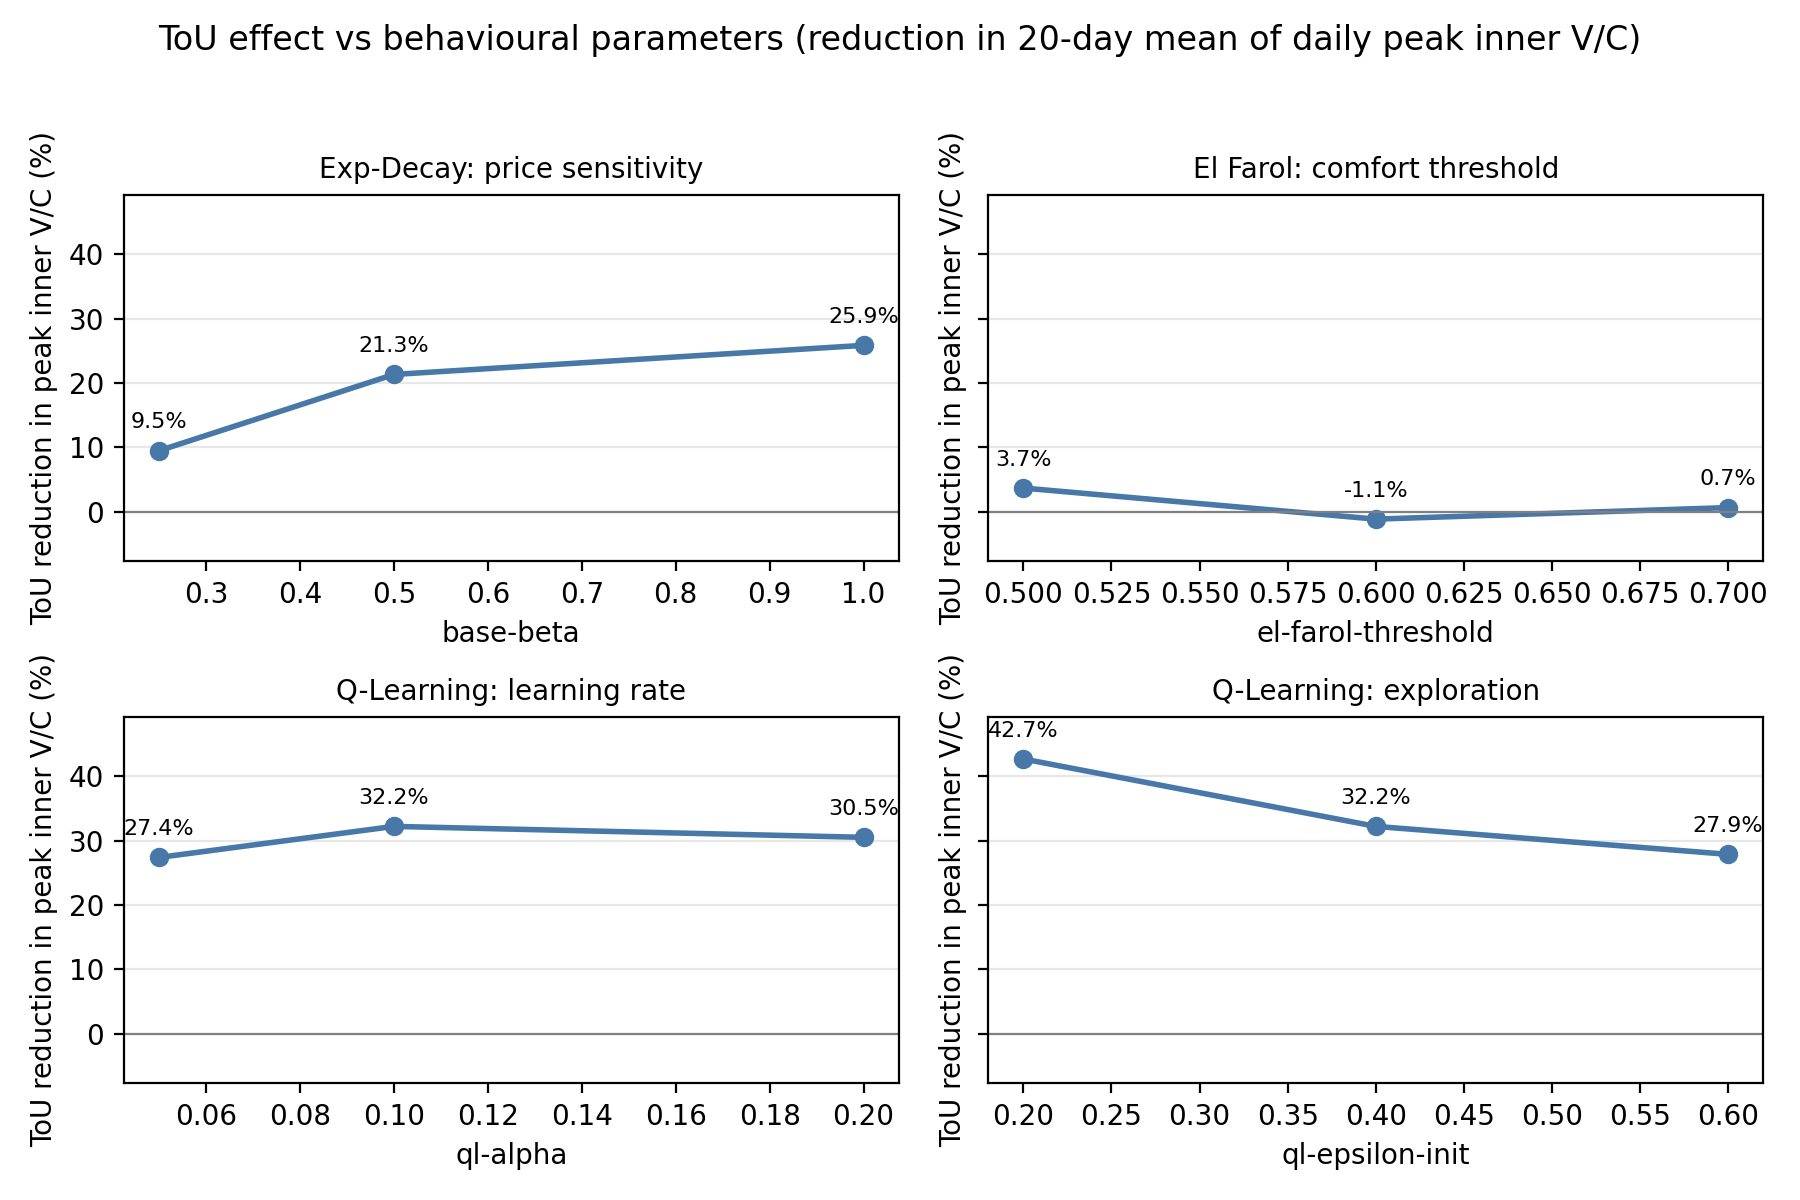
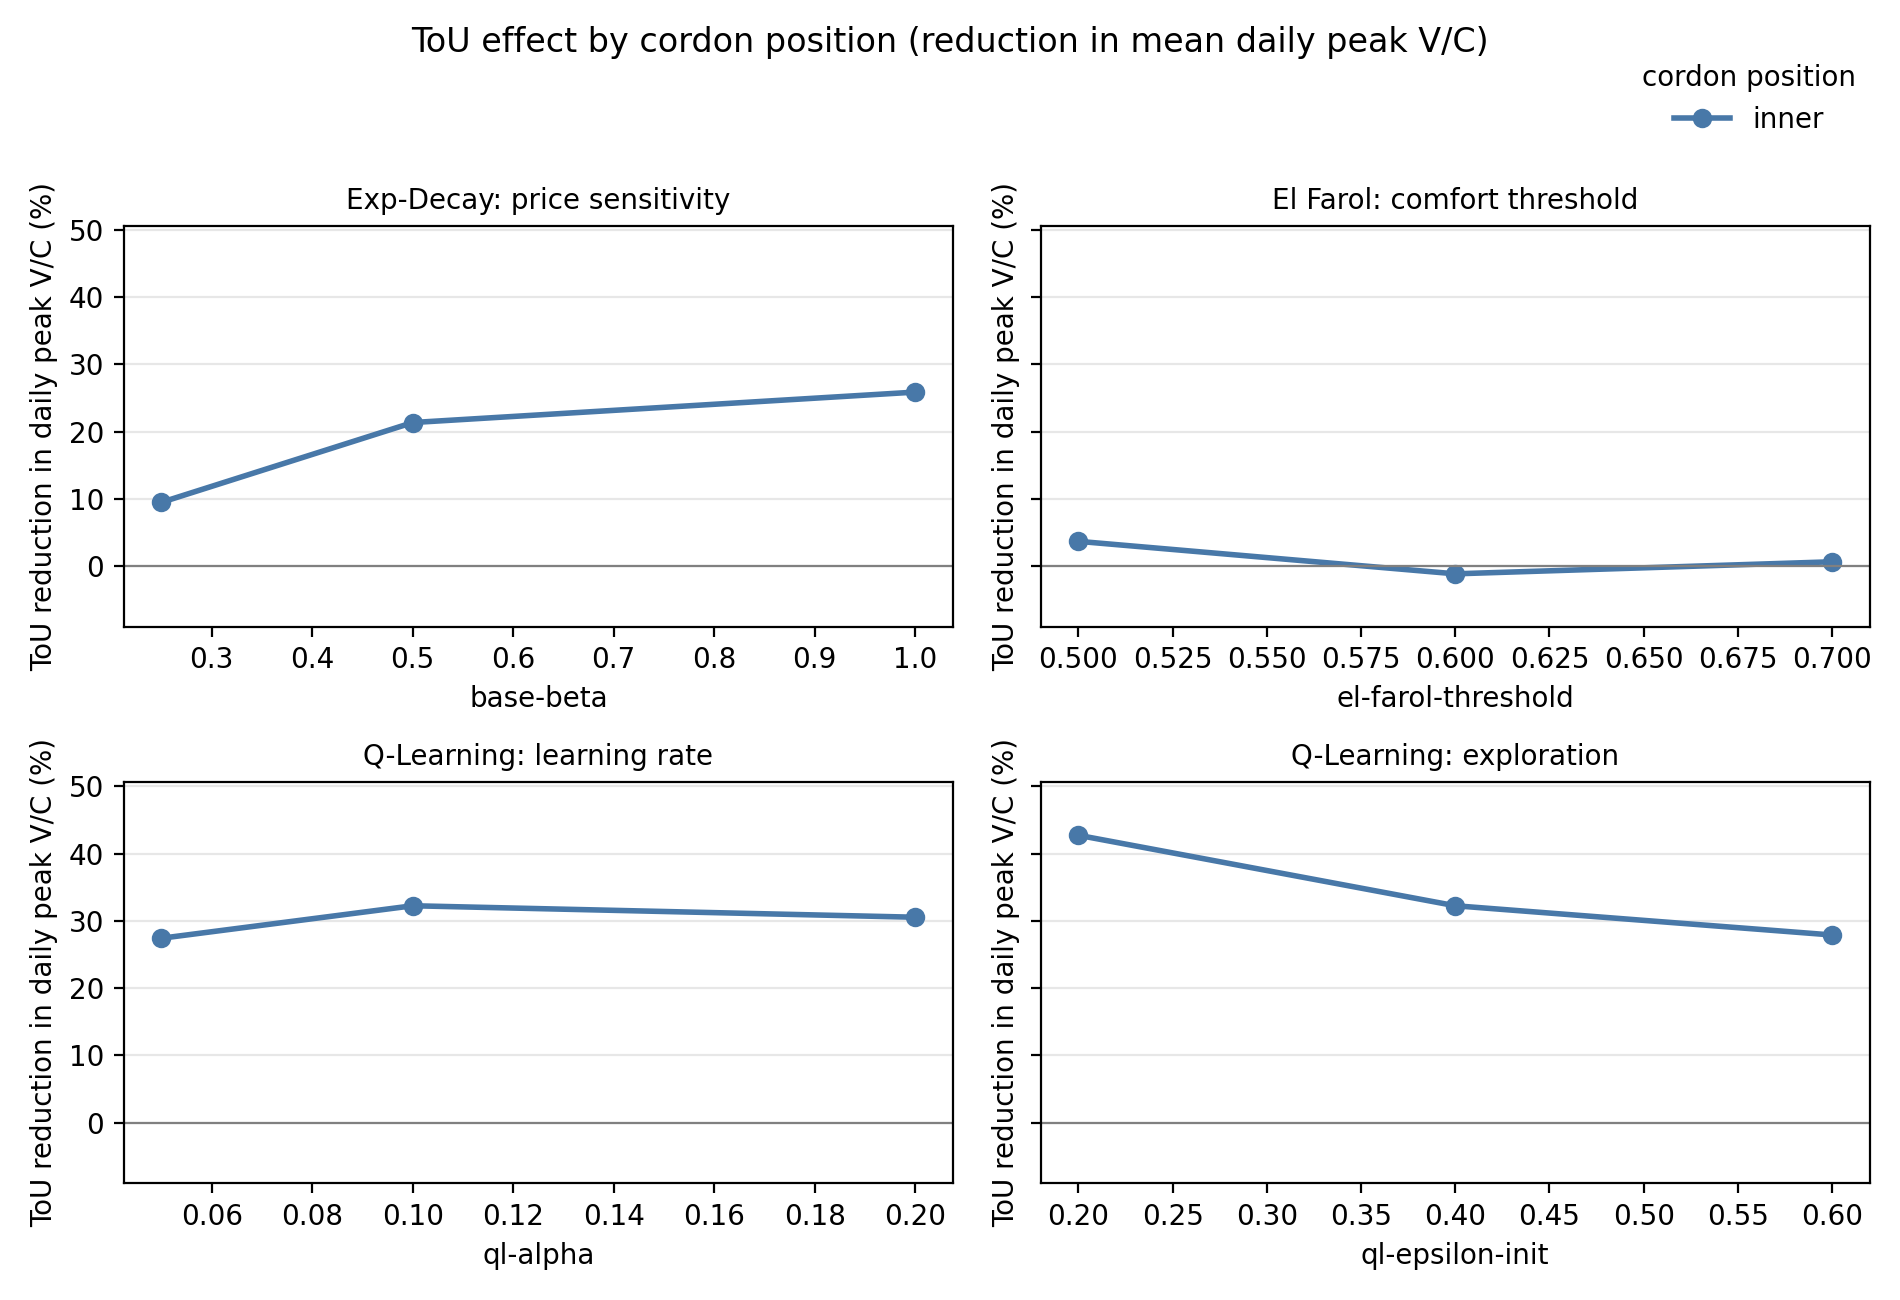
Break the sensitivity figures out by cordon position
sensitivity_reduction.png now draws one line per position (inner / boundary /
peripheral) instead of inner only, so a position that gets worse under pricing
shows up as a line below zero - the signature of queues displacing onto the
cordon boundary. New sensitivity_positions.png shows the underlying levels as
No-Charge/ToU box pairs per position at each rule's baseline parameter, because
a percentage off the small inner base is easy to over-read next to the
boundary's much higher V/C.

Both figures need peak-vc-boundary/peak-vc-peripheral, which only exist in
tables written after the metric expansion, so they degrade gracefully on the
current 20-day tables (series skipped, note printed) and will populate once the
14-day suite runs. SENS_TABLES/SENS_FIGS env overrides added; the position code
paths were verified against a synthetic fixture with displacement built in.

Changed region(s): [[0.0, 0.1233, 0.9956, 0.9867], [0.0933, 0.0, 0.9644, 0.0925]]

diff --git a/netlogo/sensitivity_experiment/plot_sensitivity.py b/netlogo/sensitivity_experiment/plot_sensitivity.py
@@ -1,14 +1,21 @@
 #!/usr/bin/env python3
-"""Boxplots for the BehaviorSpace sensitivity tables.
+"""Figures for the BehaviorSpace sensitivity tables.
 
-Each run's 20 daily values (peak-vc-inner, or peak % traffic at LoS E/F per
-group for the k-factor sweep) become one box, paired No-Charge vs ToU at each
-parameter value, so the day-to-day spread that the mean/SD summary hides is
-visible directly.
+Reads  output/tables/sensitivity-*.csv  (override dir with SENS_TABLES)
+Writes output/figures/                  (override dir with SENS_FIGS)
 
-Reads  netlogo/output/tables/sensitivity-*.csv
-Writes netlogo/output/figures/sensitivity_box_behaviour.png
-       netlogo/output/figures/sensitivity_box_kfactor.png
+  sensitivity_box_behaviour.png    daily peak inner V/C, one box per run
+  sensitivity_box_kfactor.png      group LoS E/F over the k-factor sweep
+  sensitivity_reduction.png        ToU reduction by cordon position
+  sensitivity_positions.png        peak V/C by position at each rule baseline
+  sensitivity_elfarol_timeseries.png  El Farol day-by-day oscillation
+
+A box is one run's per-day values, paired No-Charge vs ToU, so the day-to-day
+spread the mean/SD summary hides stays visible.
+
+The two position figures need peak-vc-boundary / peak-vc-peripheral, which only
+exist in tables written after the metric set was expanded (2026-07-25). Older
+tables are handled: those series are skipped and a note is printed.
 """
 import csv, os
 from collections import defaultdict
@@ -17,8 +24,10 @@ matplotlib.use("Agg")
 import matplotlib.pyplot as plt
 
 HERE = os.path.dirname(os.path.abspath(__file__))
-TABLES = os.path.join(HERE, "..", "..", "output", "tables")
-FIGS = os.path.join(HERE, "..", "..", "output", "figures")
+# Paths can be redirected (SENS_TABLES / SENS_FIGS) to run the figures against
+# a test fixture without touching output/.
+TABLES = os.environ.get("SENS_TABLES") or os.path.join(HERE, "..", "..", "output", "tables")
+FIGS = os.environ.get("SENS_FIGS") or os.path.join(HERE, "..", "..", "output", "figures")
 os.makedirs(FIGS, exist_ok=True)
 
 FEE_ORDER = ["No-Charge", "tou"]
@@ -31,6 +40,13 @@ def load(path):
         rows = list(csv.reader(f))
     hdr_i = next(i for i, r in enumerate(rows) if r and r[0] == "[run number]")
     return rows[hdr_i], [r for r in rows[hdr_i + 1:] if r]
+
+
+def has_metric(path, metric):
+    """True if the table carries this metric column. Tables written before the
+    metric set was expanded (2026-07-25) only have peak-vc-inner, so the
+    position figures must degrade gracefully rather than crash."""
+    return metric in load(path)[0]
 
 
 def daily_series(path, pvar, metric):
@@ -128,40 +144,97 @@ if os.path.exists(path):
 else:
     print(f"(skip k-factor figure: {path} not found)")
 
-# --- Figure 3: ToU reduction (%) in mean daily peak inner V/C, by parameter -
-fig, axes = plt.subplots(2, 2, figsize=(9, 6), sharey=True)
+# --- Figure 3: ToU reduction (%) by cordon position, per parameter ----------
+# Three positions on one axis: if pricing relieves the inner cordon while
+# pushing queues onto the boundary, the boundary line drops below zero.
+POSITIONS = [("peak-vc-inner", "inner", "#4878a8"),
+             ("peak-vc-boundary", "boundary", "#d1893a"),
+             ("peak-vc-peripheral", "peripheral", "#5aa469")]
+
+
+def reductions(series, params):
+    """ToU reduction (%) off the No-Charge mean, per parameter value."""
+    out = []
+    for p in params:
+        none = series.get((p, "No-Charge")); tou = series.get((p, "tou"))
+        if not (none and tou):
+            out.append(float("nan")); continue
+        m0 = sum(none) / len(none); m1 = sum(tou) / len(tou)
+        out.append(100 * (m0 - m1) / m0 if m0 else 0.0)
+    return out
+
+
+fig, axes = plt.subplots(2, 2, figsize=(9.5, 6.5), sharey=True)
 drew = False
+missing_pos = []
 for ax, (exp, pvar, title) in zip(axes.flat, BEHAVIOUR):
     path = os.path.join(TABLES, f"{exp}.csv")
     if not os.path.exists(path):
         ax.set_axis_off(); continue
-    series = daily_series(path, pvar, "peak-vc-inner")
-    params = sorted({p for p, _ in series}, key=float)
-    reds = []
-    for p in params:
-        none = series.get((p, "No-Charge")); tou = series.get((p, "tou"))
-        if not (none and tou):
-            reds.append(float("nan")); continue
-        m0 = sum(none) / len(none); m1 = sum(tou) / len(tou)
-        reds.append(100 * (m0 - m1) / m0 if m0 else 0.0)
-    ax.plot([float(p) for p in params], reds, "o-", color="#4878a8", lw=2)
-    for x, y in zip(params, reds):
-        ax.annotate(f"{y:.1f}%", (float(x), y), textcoords="offset points",
-                    xytext=(0, 8), ha="center", fontsize=8)
+    for metric, label, colour in POSITIONS:
+        if not has_metric(path, metric):
+            missing_pos.append(f"{exp}:{label}")
+            continue
+        series = daily_series(path, pvar, metric)
+        params = sorted({p for p, _ in series}, key=float)
+        ax.plot([float(p) for p in params], reductions(series, params),
+                "o-", color=colour, lw=2, label=label)
     ax.axhline(0, color="gray", lw=0.8)
     ax.set_title(title, fontsize=10)
     ax.set_xlabel(pvar)
-    ax.set_ylabel("ToU reduction in peak inner V/C (%)")
+    ax.set_ylabel("ToU reduction in daily peak V/C (%)")
     ax.grid(axis="y", alpha=0.3)
-    ax.margins(y=0.15)
+    ax.margins(y=0.18)
     drew = True
 if drew:
-    fig.suptitle("ToU effect vs behavioural parameters (reduction in 20-day mean of daily peak inner V/C)")
-    fig.tight_layout(rect=(0, 0, 1, 0.95))
+    handles, labels = axes.flat[0].get_legend_handles_labels()
+    if handles:
+        fig.legend(handles, labels, loc="upper right", ncol=3, frameon=False,
+                   title="cordon position", bbox_to_anchor=(0.99, 0.97))
+    fig.suptitle("ToU effect by cordon position (reduction in mean daily peak V/C)")
+    fig.tight_layout(rect=(0, 0, 1, 0.93))
     out = os.path.join(FIGS, "sensitivity_reduction.png")
     fig.savefig(out, dpi=200)
     print("wrote", out)
+    if missing_pos:
+        print("  note: boundary/peripheral absent from older tables —",
+              f"{len(missing_pos)} series skipped (re-run to populate)")
 plt.close(fig)
+
+# --- Figure 3b: absolute levels by position, at each rule's baseline --------
+# Reduction percentages off a small base can mislead, so show the levels too.
+BASELINE = {"sensitivity-pay": 0.5, "sensitivity-elfarol": 0.6,
+            "sensitivity-ql-alpha": 0.1, "sensitivity-ql-epsilon": 0.4}
+if any(os.path.exists(os.path.join(TABLES, f"{e}.csv"))
+       and has_metric(os.path.join(TABLES, f"{e}.csv"), "peak-vc-boundary")
+       for e, _, _ in BEHAVIOUR):
+    fig, axes = plt.subplots(2, 2, figsize=(9.5, 6.5), sharey=True)
+    for ax, (exp, pvar, title) in zip(axes.flat, BEHAVIOUR):
+        path = os.path.join(TABLES, f"{exp}.csv")
+        if not (os.path.exists(path) and has_metric(path, "peak-vc-boundary")):
+            ax.set_axis_off(); continue
+        base = BASELINE[exp]
+        per_pos = {}
+        for metric, label, _ in POSITIONS:
+            series = daily_series(path, pvar, metric)
+            for (p, fee), vals in series.items():
+                if abs(float(p) - base) < 1e-9:
+                    per_pos[(label, fee)] = vals
+        labels = [lab for _, lab, _ in POSITIONS]
+        paired_boxes(ax, {(lab, fee): per_pos.get((lab, fee), [])
+                          for lab in labels for fee in FEE_ORDER},
+                     labels, "daily peak V/C", f"{title}  ({pvar} = {base})")
+        ax.set_xlabel("cordon position")
+    fig.legend(handles=legend_handles(), loc="upper right", ncol=2,
+               frameon=False, bbox_to_anchor=(0.99, 0.97))
+    fig.suptitle("Daily peak V/C by cordon position, at each rule's baseline parameter")
+    fig.tight_layout(rect=(0, 0, 1, 0.93))
+    out = os.path.join(FIGS, "sensitivity_positions.png")
+    fig.savefig(out, dpi=200)
+    print("wrote", out)
+    plt.close(fig)
+else:
+    print("(skip position-levels figure: no table has peak-vc-boundary yet)")
 
 # --- Figure 4: El Farol daily time series (oscillation made visible) --------
 path = os.path.join(TABLES, "sensitivity-elfarol.csv")

diff --git a/netlogo/LOS_IMPLEMENTATION.md b/netlogo/LOS_IMPLEMENTATION.md
@@ -127,8 +127,21 @@ calibration.
 - `output/figures/sensitivity_box_behaviour.png` — paired No-Charge/ToU boxes
   (20 days per box) for the four behavioural experiments.
 - `output/figures/sensitivity_box_kfactor.png` — same, per group, k sweep.
-- `output/figures/sensitivity_reduction.png` — ToU reduction (%) vs parameter.
+- `output/figures/sensitivity_reduction.png` — ToU reduction (%) vs parameter,
+  with one line per cordon position (inner / boundary / peripheral). A position
+  whose line falls below zero got *worse* under pricing, which is what
+  displacement onto the cordon boundary would look like.
+- `output/figures/sensitivity_positions.png` — daily peak V/C by position,
+  No-Charge vs ToU, at each rule's baseline parameter. Shows the levels behind
+  the percentages (a large % off the small inner base can look bigger than it
+  is next to the boundary's ~0.5).
 - `output/figures/sensitivity_elfarol_timeseries.png` — El Farol daily series.
+
+The two position figures need `peak-vc-boundary` / `peak-vc-peripheral` and so
+stay empty until a run made after 2026-07-25 exists; `plot_sensitivity.py`
+skips them with a printed note rather than failing. `SENS_TABLES` /
+`SENS_FIGS` env vars redirect input/output dirs (used to test the figures
+against a fixture).
 - `output/tables/sensitivity-*.csv` — raw BehaviorSpace tables (6 runs × 20
   days each), calibrated model, 2026-07-25; `sensitivity_summary.txt` —
   aggregated means/SDs.
